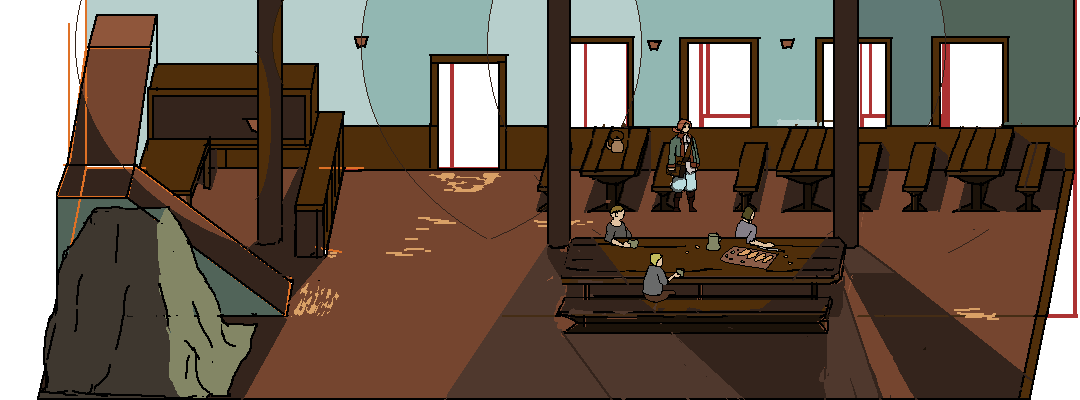
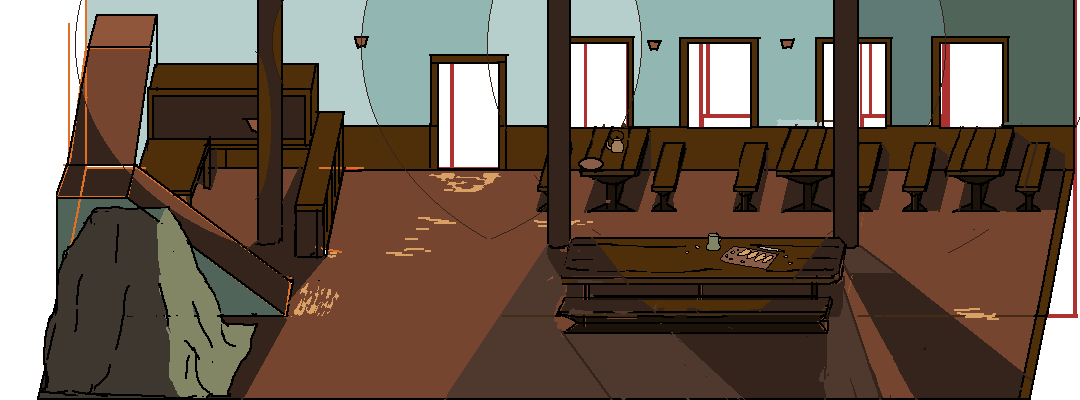
tunning fullthrust, rabble-thrust, nachschlag's paces and ranges update backlogs reset some hps to normal vals fix wrong footstep sfx set for ep1 tavern

diff --git a/scripts/SceneDefs.js b/scripts/SceneDefs.js
@@ -92,7 +92,7 @@ export const BATTLE_TAVERN_NIGHT_RABBLE = {
     combatants: ["hero", "enemy_1"],
     // 每战斗人员配置：AI throwAmmo 缺省/0 = 无投掷能力（不装配 ThrowComponent）；player 弹药走背包
     combatantConfig: {
-        enemy_1: { throwAmmo: 5, maxHp: 1 },
+        enemy_1: { throwAmmo: 5, maxHp: 10 },
     },
     stageBounds: { minX: -19, maxX: -7   , minY: -0.85, maxY: -0.65 },
     battleYBaseline: -0.76,
@@ -193,7 +193,7 @@ export const BATTLE_TAVERN_NIGHT_MANATARMS = {
     id: "battle_tavern_night_manatarms",
     combatants: ["hero", "enemy_2"],     // enemy_2 对应 ep1_tavern_night.json 里的实体 id
     combatantConfig: {
-        enemy_2: { throwAmmo: 0, maxHp: 1 },
+        enemy_2: { throwAmmo: 0, maxHp: 10 },
     },
     stageBounds: { minX: -9, maxX: 7, minY: -0.85, maxY: -0.65 },
     battleYBaseline: -0.76,

diff --git a/scripts/CharacterFactory.js b/scripts/CharacterFactory.js
@@ -17,7 +17,7 @@ export function createHeroCharacter(scene, assets) {
         ...DEFAULT_CHARACTER_OPTIONS,
         name: "hero",
         kind: "player",
-        maxHp: 1,
+        maxHp: 10,
         blocksMovement: false,
         interactable: false,
         stateGraph: assets.stateGraphs.hero,

diff --git a/plans/BACKLOG.md b/plans/BACKLOG.md
@@ -32,11 +32,7 @@ buff
 抽象一个hud类统一管理所有hud元素，目前是耐力条和血条，道具，buff栏
 致命一击时的freeze，尤其man at arms
 通关后continue清理
-tavern hall去人物重导
 tavern night 血量
-nashachlag 范围加大
-rabble thrust 动画帧加长
-fullthrust 稍加快
 AI反应速度增加疲劳惩罚
 
 
